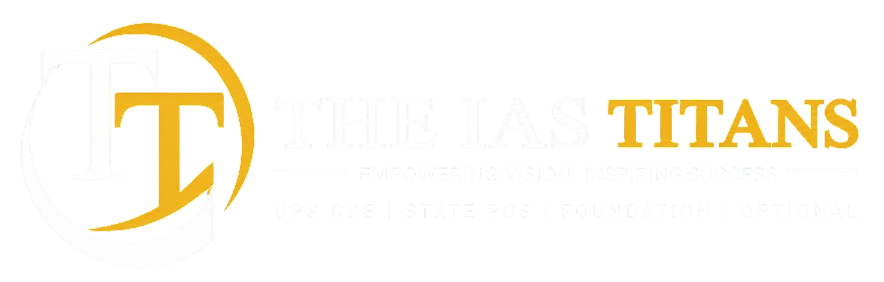
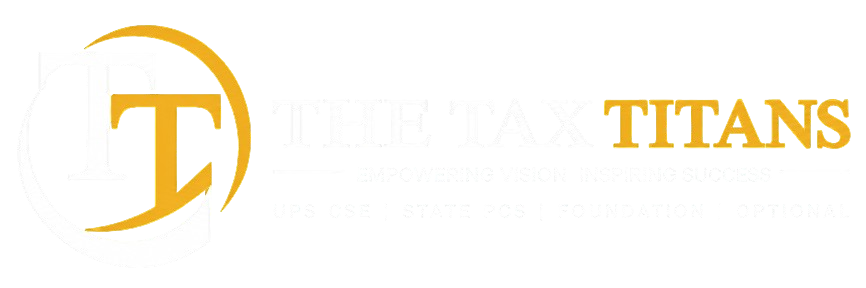
Updated website

diff --git a/css/brand.css b/css/brand.css
@@ -1,0 +1,145 @@
+/* =========================
+   BRAND START
+========================= */
+
+.platform-section{
+    background:#fff;
+    padding:70px 0;
+    overflow:hidden;
+}
+
+.platform-container{
+    width:100%;
+}
+
+.platform-title{
+    text-align:center;
+    margin-bottom:50px;
+}
+
+.platform-title h2{
+    font-size:42px;
+    font-weight:700;
+    color:#111;
+    margin:0;
+    line-height:1.3;
+}
+
+.platform-title h2 span{
+    color:#D4AF37;
+}
+
+/* Slider */
+
+.logo-slider{
+    width:100%;
+    overflow:hidden;
+    position:relative;
+}
+
+.logo-track{
+    display:flex;
+    align-items:center;
+    width:max-content;
+    animation:scrollLogos 28s linear infinite;
+}
+
+.logo-slider:hover .logo-track{
+    animation-play-state:running;
+}
+
+.logo-item{
+    flex:0 0 auto;
+    width:180px;
+    margin:0 35px;
+    display:flex;
+    justify-content:center;
+    align-items:center;
+}
+
+.logo-item img{
+    max-width:160px;
+    max-height:70px;
+    width:auto;
+    height:auto;
+    object-fit:contain;
+    transition:.3s;
+}
+
+.logo-item img:hover{
+    transform:scale(1.08);
+}
+
+/* Smooth Infinite Scroll */
+
+@keyframes scrollLogos{
+    from{
+        transform:translateX(0);
+    }
+    to{
+        transform:translateX(-50%);
+    }
+}
+
+/* TABLET */
+
+@media(max-width:991px){
+
+    .platform-section{
+        padding:60px 0;
+    }
+
+    .platform-title{
+        margin-bottom:40px;
+    }
+
+    .platform-title h2{
+        font-size:34px;
+    }
+
+    .logo-item{
+        width:150px;
+        margin:0 25px;
+    }
+
+    .logo-item img{
+        max-width:130px;
+        max-height:60px;
+    }
+}
+
+/*  MOBILE */
+
+@media(max-width:767px){
+
+    .platform-section{
+        padding:50px 0;
+    }
+
+    .platform-title{
+        margin-bottom:35px;
+    }
+
+    .platform-title h2{
+        font-size:26px;
+        line-height:1.4;
+        padding:0 15px;
+    }
+
+    .logo-item{
+        width:120px;
+        margin:0 18px;
+    }
+
+    .logo-item img{
+        max-width:100px;
+        max-height:45px;
+    }
+
+    .logo-track{
+        animation:scrollLogos 20s linear infinite;
+    }
+}
+/* =========================
+   BRAND END
+========================= */

diff --git a/index.html b/index.html
@@ -13,6 +13,7 @@
     <link rel="stylesheet" href="/css/services.css">
     <link rel="stylesheet" href="/css/whychoose.css">
     <link rel="stylesheet" href="/css/faq.css">
+    <link rel="stylesheet" href="/css/brand.css">
     <link rel="stylesheet" href="https://cdnjs.cloudflare.com/ajax/libs/font-awesome/6.7.2/css/all.min.css">
 
     <meta name="keywords" content="GST registration, GST return filing, Income Tax filing, Accounting services, Tax compliance, Business registration, Taxation, GST services, Accounting solutions, Tax advisory, GST e-filing, Company registration, LLP registration, Professional accounting, Virtual accounting, Business consultancy">
@@ -568,10 +569,102 @@ individuals, businesses, organizations, and government entities.
     </div>
 
 </section>
-
 <!-- faq section end  -->
+<!-- brand START -->
+<section class="platform-section">
 
-<!-- faq section end  -->
+    <div class="platform-container">
+
+        <div class="platform-title">
+            <h2>Expert In <span>Modern Accounting Platforms</span></h2>
+        </div>
+
+        <div class="logo-slider">
+
+            <div class="logo-track">
+
+                <!-- First Set -->
+                <div class="logo-item">
+                    <img src="/img/b1.png" alt="Xero">
+                </div>
+
+                <div class="logo-item">
+                    <img src="/img/b2.png" alt="Sage">
+                </div>
+
+                <div class="logo-item">
+                    <img src="/img/b3.png" alt="Marg">
+                </div>
+
+                <div class="logo-item">
+                    <img src="/img/b4.png" alt="SAP">
+                </div>
+
+                <div class="logo-item">
+                    <img src="/img/b5.png" alt="QuickBooks">
+                </div>
+
+                <div class="logo-item">
+                    <img src="/img/b6.png" alt="MS Office">
+                </div>
+
+                <div class="logo-item">
+                    <img src="/img/b7.png" alt="Zoho">
+                </div>
+
+                <div class="logo-item">
+                    <img src="/img/b8.png" alt="Buildium">
+                </div>
+
+                <div class="logo-item">
+                    <img src="/img/b9.png" alt="Wave">
+                </div>
+
+                <!-- Duplicate Set -->
+                <div class="logo-item">
+                    <img src="/img/b1.png" alt="Xero">
+                </div>
+
+                <div class="logo-item">
+                    <img src="/img/b2.png" alt="Sage">
+                </div>
+
+                <div class="logo-item">
+                    <img src="/img/b3.png" alt="Marg">
+                </div>
+
+                <div class="logo-item">
+                    <img src="/img/b4.png" alt="SAP">
+                </div>
+
+                <div class="logo-item">
+                    <img src="/img/b5.png" alt="QuickBooks">
+                </div>
+
+                <div class="logo-item">
+                    <img src="/img/b6.png" alt="MS Office">
+                </div>
+
+                <div class="logo-item">
+                    <img src="/img/b7.png" alt="Zoho">
+                </div>
+
+                <div class="logo-item">
+                    <img src="/img/b8.png" alt="Buildium">
+                </div>
+
+                <div class="logo-item">
+                    <img src="/img/b9.png" alt="Wave">
+                </div>
+
+            </div>
+
+        </div>
+
+    </div>
+</section>
+<!-- brand END -->
+
      <div id="footer"></div>
 <!-- Floating Social Icons Start -->
 <div class="floating-icons">